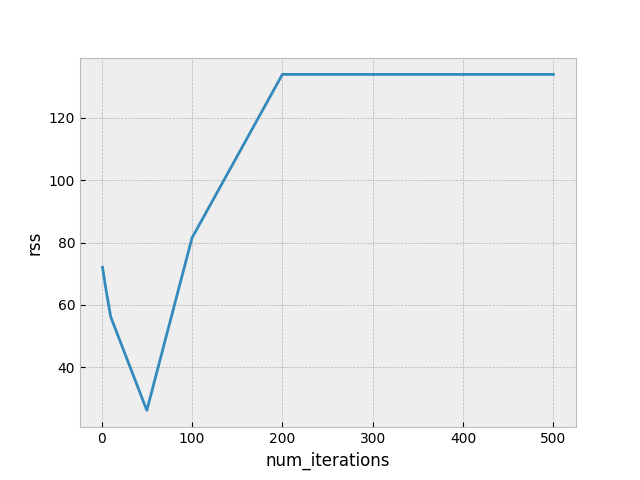
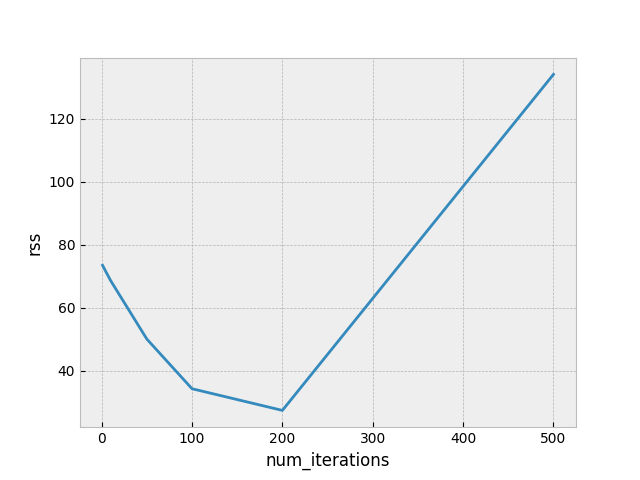
bp work debugging (found 1 bug)

diff --git a/src/bp_neural_network.py b/src/bp_neural_network.py
@@ -7,7 +7,7 @@ class Node():
         self.is_bias = is_bias
         self.inputs = None
         self.outputs = None
-        self.dRSS_dn = 0
+        self.dRSS_dn = None
 
 class NeuralNetwork():
 
@@ -37,6 +37,7 @@ class NeuralNetwork():
         for node in self.node_list.values():
             node.inputs  = {point:0 for point in self.data}
             node.outputs = {point:0 for point in self.data}
+            node.dRSS_dn = {point:0 for point in self.data}
 
     def run_gradient_descent(self, num_iterations_list, alpha=0.001):
 
@@ -136,28 +137,32 @@ class NeuralNetwork():
 
     def calc_dRSS_dn(self):
 
-        final_node = self.node_list[self.num_nodes]
-        final_node.dRSS_dn = sum(2 * (final_node.outputs[point] - point[1]) for point in self.data)
+        self.node_list[self.num_nodes] = self.node_list[self.num_nodes]
 
         for point in self.data:
-            self.node_list[5].dRSS_dn += final_node.dRSS_dn * self.f_prime(final_node.inputs[point]) * self.initial_weights[(self.node_list[5], final_node)]
-            self.node_list[4].dRSS_dn += final_node.dRSS_dn * self.f_prime(final_node.inputs[point]) * self.initial_weights[(self.node_list[4], final_node)]
-            self.node_list[3].dRSS_dn += final_node.dRSS_dn * self.f_prime(final_node.inputs[point]) * self.initial_weights[(self.node_list[3], final_node)]
+            self.node_list[self.num_nodes].dRSS_dn[point] = 2 * (self.node_list[self.num_nodes].outputs[point] - point[1])
+
+        # I WAS MISSING THE PARENTHASES AUHOASDHIAWORUNAADASASDOASA
 
         for point in self.data:
-            self.node_list[2].dRSS_dn += self.node_list[3].dRSS_dn * self.f_prime(self.node_list[3].inputs[point]) * self.initial_weights[(self.node_list[2], self.node_list[3])] + self.node_list[4].dRSS_dn * self.f_prime(self.node_list[4].inputs[point]) * self.initial_weights[(self.node_list[2], self.node_list[4])]
-            self.node_list[1].dRSS_dn += self.node_list[3].dRSS_dn * self.f_prime(self.node_list[3].inputs[point]) * self.initial_weights[(self.node_list[1], self.node_list[3])] + self.node_list[4].dRSS_dn * self.f_prime(self.node_list[4].inputs[point]) * self.initial_weights[(self.node_list[1], self.node_list[4])]
+            self.node_list[5].dRSS_dn[point] = self.node_list[self.num_nodes].dRSS_dn[point] * self.f_prime(self.node_list[self.num_nodes].inputs[point]) * self.initial_weights[(self.node_list[5], self.node_list[self.num_nodes])]
+            self.node_list[4].dRSS_dn[point] = self.node_list[self.num_nodes].dRSS_dn[point] * self.f_prime(self.node_list[self.num_nodes].inputs[point]) * self.initial_weights[(self.node_list[4], self.node_list[self.num_nodes])]
+            self.node_list[3].dRSS_dn[point] = self.node_list[self.num_nodes].dRSS_dn[point] * self.f_prime(self.node_list[self.num_nodes].inputs[point]) * self.initial_weights[(self.node_list[3], self.node_list[self.num_nodes])]
 
-        # for node in list(self.node_list.values())[0:-1][::-1]:
+        for point in self.data:
+            self.node_list[2].dRSS_dn[point] += self.node_list[3].dRSS_dn[point] * self.f_prime(self.node_list[3].inputs[point]) * self.initial_weights[(self.node_list[2], self.node_list[3])] + self.node_list[4].dRSS_dn[point] * self.f_prime(self.node_list[4].inputs[point]) * self.initial_weights[(self.node_list[2], self.node_list[4])]
+            self.node_list[1].dRSS_dn[point] += self.node_list[3].dRSS_dn[point] * self.f_prime(self.node_list[3].inputs[point]) * self.initial_weights[(self.node_list[1], self.node_list[3])] + self.node_list[4].dRSS_dn[point] * self.f_prime(self.node_list[4].inputs[point]) * self.initial_weights[(self.node_list[1], self.node_list[4])]
+
+        # for node in list(self.node_list.values())[0:-1][::-1]:            
         #     for point in self.data:
         #         for node_above in self.rows[self.row_of(node, self.rows) + 1]:
-        #             if node_above.is_bias: continue
-        #             node.dRSS_dn += node_above.dRSS_dn * self.f_prime(node_above.inputs[point]) * self.initial_weights[(node, node_above)]
+        #             if not node.is_bias:
+        #                 node.dRSS_dn[point] += node_above.dRSS_dn[point] * self.f_prime(node_above.inputs[point]) * self.initial_weights[(node, node_above)]
     
     def calc_dRSS_dw(self):
         for a, b in self.pairs:
             for point in self.data:
-                self.dRSS_dw[(a, b)] += b.dRSS_dn * self.f_prime(b.inputs[point]) * a.outputs[point]
+                self.dRSS_dw[(a, b)] += b.dRSS_dn[point] * self.f_prime(b.inputs[point]) * a.outputs[point]
 
     def calc_rss(self, weights):
         rss = 0

diff --git a/tests/test_bp_neural_network.py b/tests/test_bp_neural_network.py
@@ -20,8 +20,13 @@ nn.fit(data, f, f_prime)
 nn.calc_inputs()
 
 nn.calc_dRSS_dn()
+
+print(nn.node_list[6].dRSS_dn)
+print(nn.node_list[5].dRSS_dn)
+
 nn.calc_dRSS_dw()
 
-print({(pair[0].index, pair[1].index) : v for pair, v in nn.dRSS_dw.items()})
+node_1, node_2, node_3, node_4, node_5, node_6 = nn.node_list.values()
+print(nn.dRSS_dw[(node_5, node_6)])
 
 nn.run_gradient_descent(num_iterations_list, alpha)
